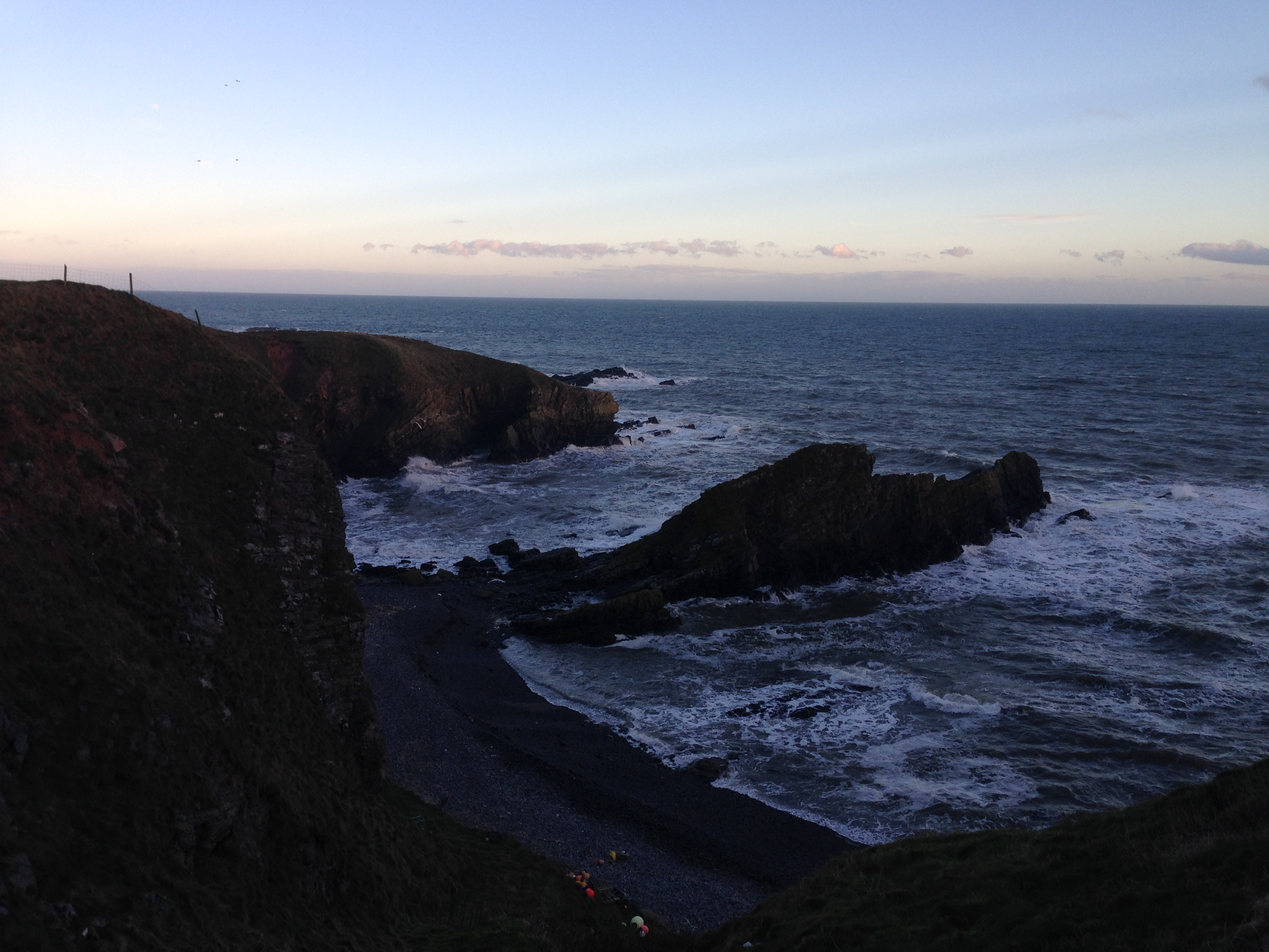
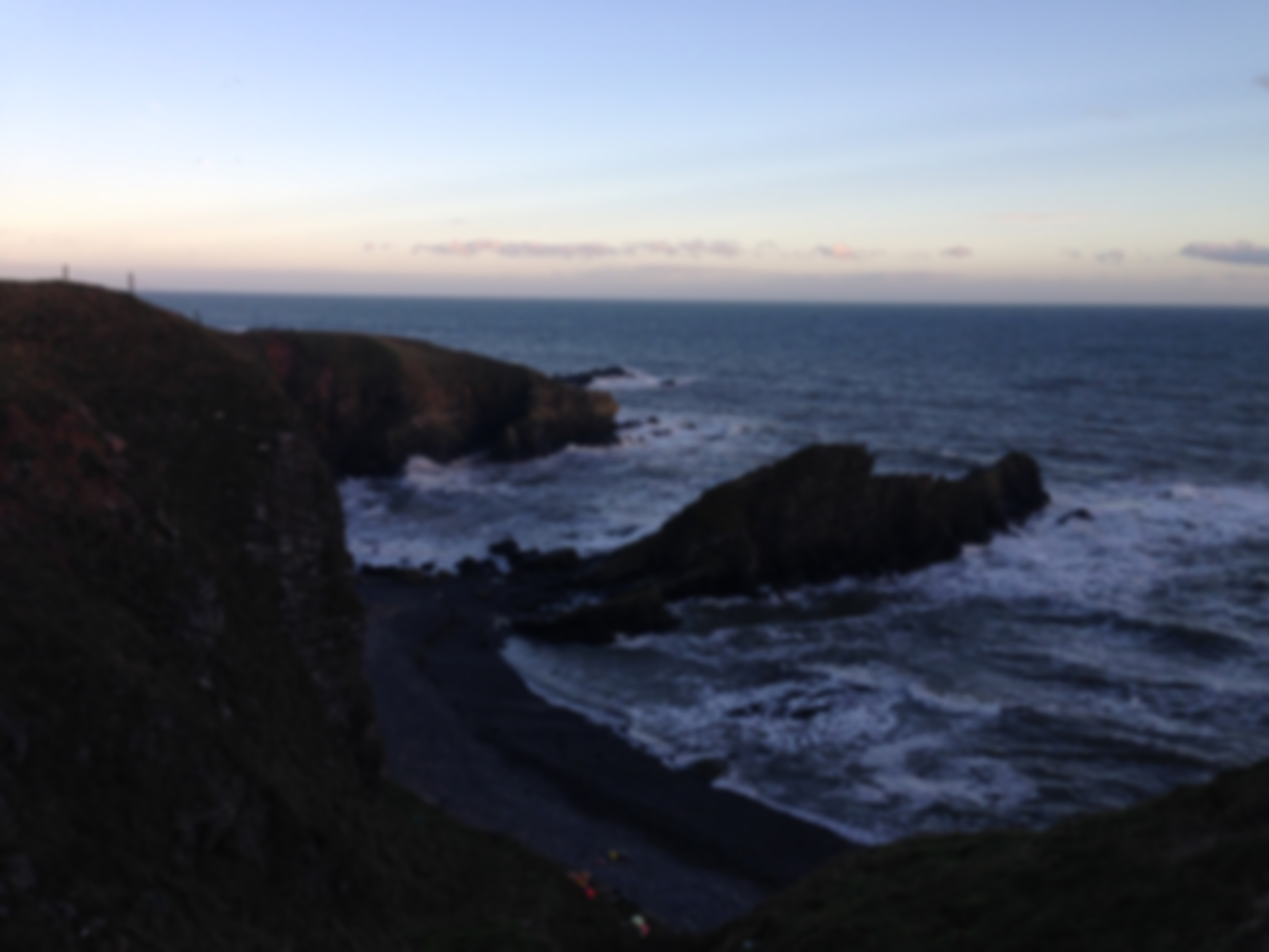
Updated a lot of things, removed interactive background, transitions work correctly now

diff --git a/index.html b/index.html
@@ -19,47 +19,45 @@
 
 <body>
 	<div class="main animsition" data-animsition-in-class="fade-in" data-animsition-out-class="fade-out">
-		<div class="bg" data-ibg-bg="img/bg.jpg"/>
-	</div>
-	<div class="top">
+		<img class="bg" src="img/bg.jpg">
+		<div class="top">
 
-		<div class="avatar animated rollIn">
-			<img src="img/MaxJW.jpg" align="middle">
-		</div>
-
-		<div class="headline animated bounceIn">
-			<h1>I'm Max Wilson, <br> welcome to my site</h1>
-			<p>This is a test</p>
-		</div>
-
-		<div class="social animated flipInX">
-
-			<div id="twitter" class="hvr-grow-rotate">
-				<a href="https://twitter.com/MrTweetDude"><i class="fa fa-twitter fa-4x"></i></a>
+			<div class="avatar animated rollIn">
+				<img src="img/MaxJW.jpg" align="middle">
 			</div>
 
-			<div id="github" class="hvr-bounce-in">
-				<a href="https://github.com/MaxJW"><i class="fa fa-github fa-4x"></i></a>
+			<div class="headline animated bounceIn">
+				<h1>I'm Max Wilson, <br> welcome to my site</h1>
+				<p>This is a test</p>
 			</div>
 
-			<div id="youtube" class="hvr-buzz-out">
-				<a href="https://www.youtube.com/user/MaxJWilson"><i class="fa fa-youtube-play fa-4x"></i></a>
+			<div class="social animated flipInX">
+
+				<div id="twitter" class="hvr-grow-rotate">
+					<a href="https://twitter.com/MrTweetDude"><i class="fa fa-twitter fa-4x"></i></a>
+				</div>
+
+				<div id="github" class="hvr-bounce-in">
+					<a href="https://github.com/MaxJW"><i class="fa fa-github fa-4x"></i></a>
+				</div>
+
+				<div id="youtube" class="hvr-buzz-out">
+					<a href="https://www.youtube.com/user/MaxJWilson"><i class="fa fa-youtube-play fa-4x"></i></a>
+				</div>
+			</div>
+		</div>
+
+		<div class="arrows">
+			<div class="left animated fadeInLeft">
+				<a href="left.html" class="left animsition-link"><i class="fa fa-arrow-circle-left fa-4x hvr-skew-forward"></i></a>
+			</div>
+			<div class="right animated fadeInRight">
+				<a href="right.html" class="animsition-link"><i class="fa fa-arrow-circle-right fa-4x hvr-skew-backward"></i></a>
 			</div>
 		</div>
 	</div>
-
-	<div class="arrows">
-		<div class="left animated fadeInLeft">
-			<a href="left.html" class="left animsition-link"><i class="fa fa-arrow-circle-left fa-4x hvr-skew-forward"></i></a>
-		</div>
-		<div class="right animated fadeInRight">
-			<a href="right.html" class="animsition-link"><i class="fa fa-arrow-circle-right fa-4x hvr-skew-backward"></i></a>
-		</div>
-	</div>
-
 	<script type="text/javascript">
 		$(".main").animsition();
-		$(".bg").interactive_bg();
 	</script>
 </body>
 

diff --git a/right.html b/right.html
@@ -19,44 +19,42 @@
 
 <body>
 	<div class="main animsition" data-animsition-in-class="fade-in-left" data-animsition-out-class="fade-out-left">
-		<div class="bg" data-ibg-bg="img/bg.jpg"/>
-	</div>
-	<div class="top">
+		<img class="bg" src="img/board.png">
+		<div class="top">
 
-		<div class="avatar animated rollIn">
-			<img src="img/MaxJW.jpg" align="middle">
-		</div>
-
-		<div class="headline animated bounceIn">
-			<h1>I'm Max Wilson, <br> welcome to my site</h1>
-			<p>This is a test</p>
-		</div>
-
-		<div class="social animated flipInX">
-
-			<div id="twitter" class="hvr-grow-rotate">
-				<a href="https://twitter.com/MrTweetDude"><i class="fa fa-twitter fa-4x"></i></a>
+			<div class="avatar animated bounceInLeft">
+				<img src="img/monopoly.png" align="middle">
 			</div>
 
-			<div id="github" class="hvr-bounce-in">
-				<a href="https://github.com/MaxJW"><i class="fa fa-github fa-4x"></i></a>
+			<div class="headline animated zoomInDown">
+				<h1>Monobasic</h1>
+				<p>An Advanced Higher Computing Project</p>
 			</div>
 
-			<div id="youtube" class="hvr-buzz-out">
-				<a href="https://www.youtube.com/user/MaxJWilson"><i class="fa fa-youtube-play fa-4x"></i></a>
+			<div class="social animated fadeInDown">
+
+				<div id="twitter" class="hvr-push">
+					<a href="https://www.surveymonkey.co.uk/r/N9BYXD3" target="_blank"><i class="fa fa-comments fa-3x"></i></a>
+				</div>
+
+				<div id="github" class="hvr-bob">
+					<a href="https://github.com/MaxJW/Monobasic/raw/master/Monobasic.zip"><i class="fa fa-download fa-5x"></i></a>
+				</div>
+
+				<div id="youtube" class="hvr-push">
+					<a href="https://www.surveymonkey.co.uk/r/NKJH3B2" target="_blank" onclick="window.open('https://www.surveymonkey.co.uk/r/X5RPPTJ'); window.open('https://www.surveymonkey.co.uk/r/NKVRK2D');"><i class="fa fa-bar-chart fa-3x"></i></a>
+				</div>
 			</div>
 		</div>
-	</div>
 
-	<div class="arrows">
-		<div class="left animated fadeInLeft">
-			<a href="index.html" class="left animsition-link"><i class="fa fa-arrow-circle-left fa-4x hvr-skew-forward"></i></a>
+		<div class="arrows">
+			<div class="left animated fadeInLeft">
+				<a href="index.html" class="left animsition-link"><i class="fa fa-arrow-circle-left fa-4x hvr-skew-forward"></i></a>
+			</div>
 		</div>
 	</div>
 	<script type="text/javascript">
-			$(".bg").interactive_bg();
 		$(".main").animsition();
-
 	</script>
 </body>
 

diff --git a/left.html b/left.html
@@ -19,44 +19,42 @@
 
 <body>
 	<div class="main animsition" data-animsition-in-class="fade-in-right" data-animsition-out-class="fade-out-right">
-		<div class="bg" data-ibg-bg="img/bg.jpg"/>
-	</div>
-	<div class="top">
+		<img class="bg" src="img/bg.jpg"/>
+		<div class="top">
 
-		<div class="avatar animated rollIn">
-			<img src="img/MaxJW.jpg" align="middle">
-		</div>
-
-		<div class="headline animated bounceIn">
-			<h1>I'm Max Wilson, <br> welcome to my site</h1>
-			<p>This is a test</p>
-		</div>
-
-		<div class="social animated flipInX">
-
-			<div id="twitter" class="hvr-grow-rotate">
-				<a href="https://twitter.com/MrTweetDude"><i class="fa fa-twitter fa-4x"></i></a>
+			<div class="avatar animated rollIn">
+				<img src="img/MaxJW.jpg" align="middle">
 			</div>
 
-			<div id="github" class="hvr-bounce-in">
-				<a href="https://github.com/MaxJW"><i class="fa fa-github fa-4x"></i></a>
+			<div class="headline animated bounceIn">
+				<h1>I'm Max Wilson, <br> welcome to my site</h1>
+				<p>This is a test</p>
 			</div>
 
-			<div id="youtube" class="hvr-buzz-out">
-				<a href="https://www.youtube.com/user/MaxJWilson"><i class="fa fa-youtube-play fa-4x"></i></a>
+			<div class="social animated flipInX">
+
+				<div id="twitter" class="hvr-grow-rotate">
+					<a href="https://twitter.com/MrTweetDude"><i class="fa fa-twitter fa-4x"></i></a>
+				</div>
+
+				<div id="github" class="hvr-bounce-in">
+					<a href="https://github.com/MaxJW"><i class="fa fa-github fa-4x"></i></a>
+				</div>
+
+				<div id="youtube" class="hvr-buzz-out">
+					<a href="https://www.youtube.com/user/MaxJWilson"><i class="fa fa-youtube-play fa-4x"></i></a>
+				</div>
+			</div>
+		</div>
+
+		<div class="arrows">
+			<div class="right animated fadeInRight">
+				<a href="index.html" class="animsition-link"><i class="fa fa-arrow-circle-right fa-4x hvr-skew-backward"></i></a>
 			</div>
 		</div>
 	</div>
-
-	<div class="arrows">
-		<div class="right animated fadeInRight">
-			<a href="index.html" class="animsition-link"><i class="fa fa-arrow-circle-right fa-4x hvr-skew-backward"></i></a>
-		</div>
-	</div>
-
 	<script type="text/javascript">
 		$(".main").animsition();
-		$(".bg").interactive_bg();
 	</script>
 </body>
 

diff --git a/css/style.css b/css/style.css
@@ -70,10 +70,9 @@ body {
 }
 
 .bg {
-	height: 100%;
+background-position: bottom-center;
 	width: 100%;
 	position: fixed;
-	background: url(img/bg.jpg);
 	z-index: -999;
 }
 
